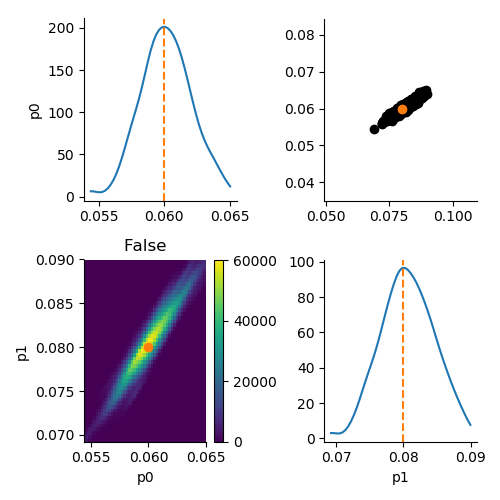
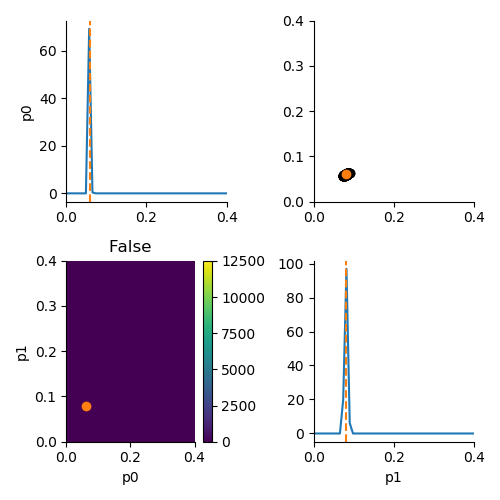
rerun

diff --git a/study_abc_noise/infer_exactly_cr/script_visualize.py b/study_abc_noise/infer_exactly_cr/script_visualize.py
@@ -32,5 +32,5 @@ for h, label in zip(histories, labels):
     plt.savefig("hist_" + label + ".png")
     for t in range(h.max_t + 1):
         df, w = h.get_distribution(t=t)
-        pyabc.visualization.plot_kde_matrix(df, w, refval=gt_par)  #, limits=mv.limits)
+        pyabc.visualization.plot_kde_matrix(df, w, refval=gt_par, limits=mv.limits)
         plt.savefig(f"kde_{label}_{t}.png")
